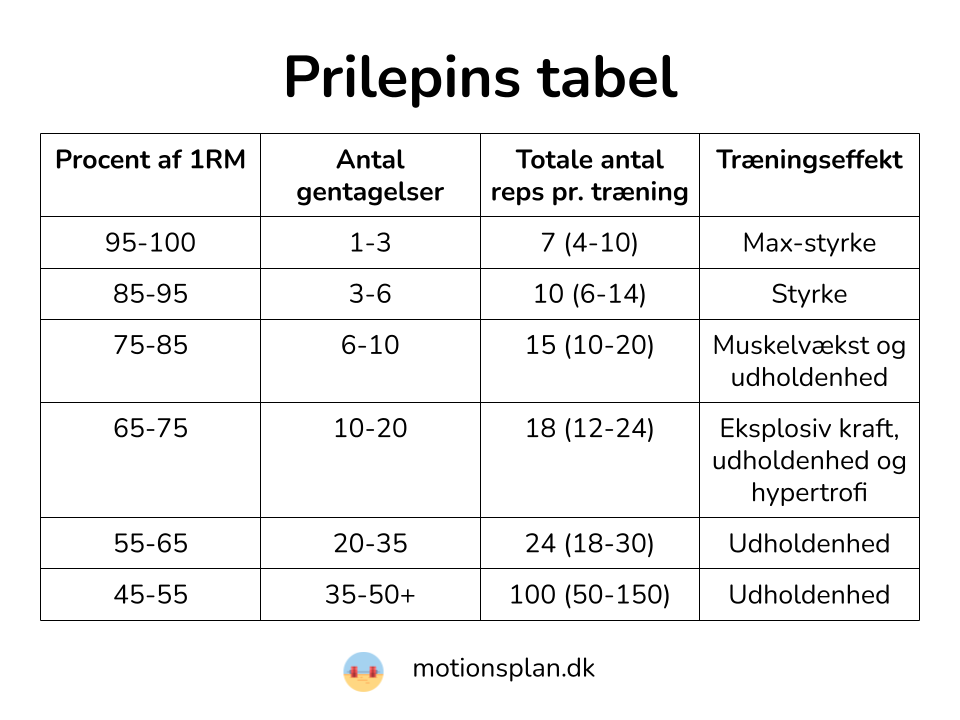
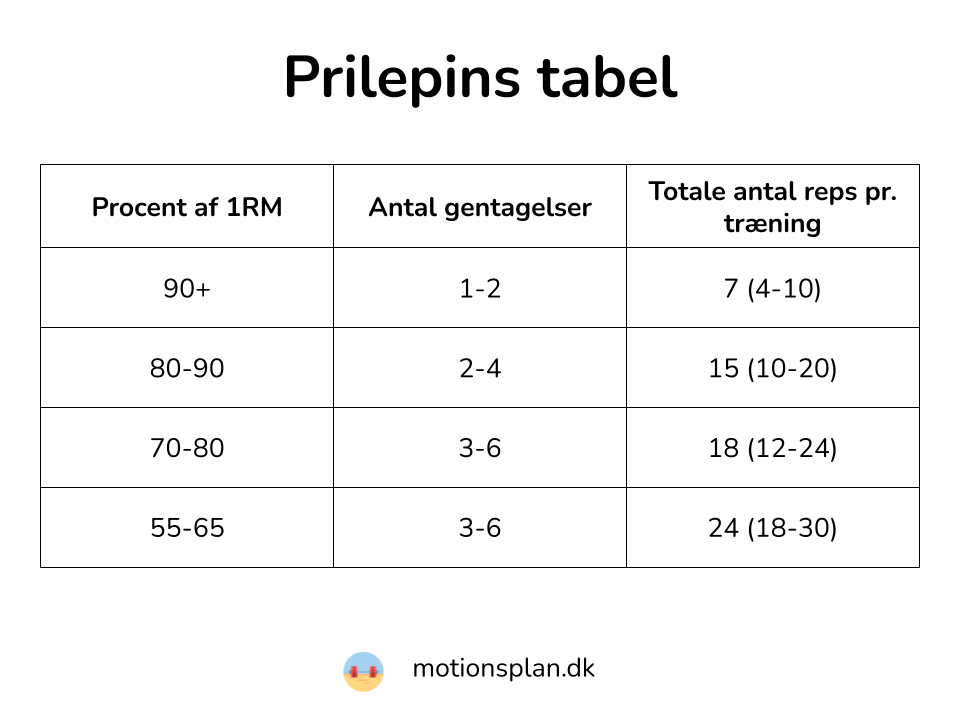
Fixes Prilepins tabel

diff --git a/_posts/2020-11-22-inol.md b/_posts/2020-11-22-inol.md
@@ -107,6 +107,16 @@ Der er forskellige bud på, hvor mange gentagelser du skal tage i din træning f
 
 [Prilepins tabel](/prilepins-tabel/) er en af de berømte muligheder, men INOL kan også bruges i praksis.
 
+Lad os sammenligne:
+
+Hvis vi finder 80% i Prilepins tabel, så er det optimale antal gentagelser 10-20. Vi har valgt en INOL, som er godt til _loading_-fasen.
+
+Hvis vi havde vælger en INOL fra 0,4 til 1,0, så bliver det optimale spænd 8-20 reps med 80% intensitet.
+
+{% include figure image_path="/assets/images/blog/inol-prilepins-tabel.jpg" caption="Prilepins tabel." %}
+
+Anbefalingerne fra INOL modsvarer således meget godt retningslinjerne fra Prilepins tabel.
+
 ## Hvordan kan jeg tracke INOL i praksis?
 
 Hvis du har dit program i et regneark, så er det relativt enkelt at tracke din egen INOL.

diff --git a/_posts/2022-11-21-prilepins-tabel.md b/_posts/2022-11-21-prilepins-tabel.md
@@ -50,6 +50,12 @@ Mange løftere kender ikke deres egen 1RM, men du kan også bruge hastigheden af
 
 Stangens hastighed går lineært nedad med højere intensitet.
 
+Prilepins tabel er som skrevet lavet ud fra vægtløftere og den måde at træne på.
+
+[Power Athlete HQ](https://powerathletehq.com/prilepins-chart/) giver i følgende tabel et bud på, hvordan den kan bruges lidt mere generelt i styrketræning.
+
+{% include figure image_path="/assets/images/blog/prilepins-tabel-modificeret.png" alt="Prilepins tabel" %}
+
 ## Hvad kan du bruge Prilepins skema til?
 
 Prilepins tabel kan bruges til at planlægge og analysere effektive programmer.
